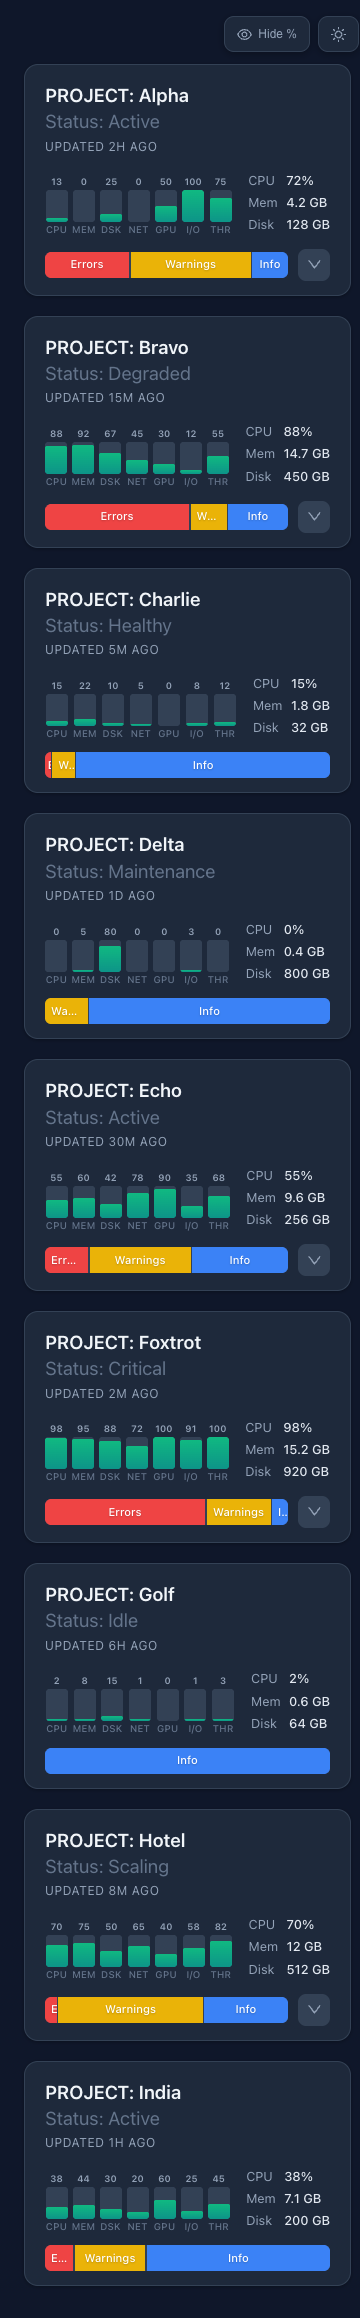
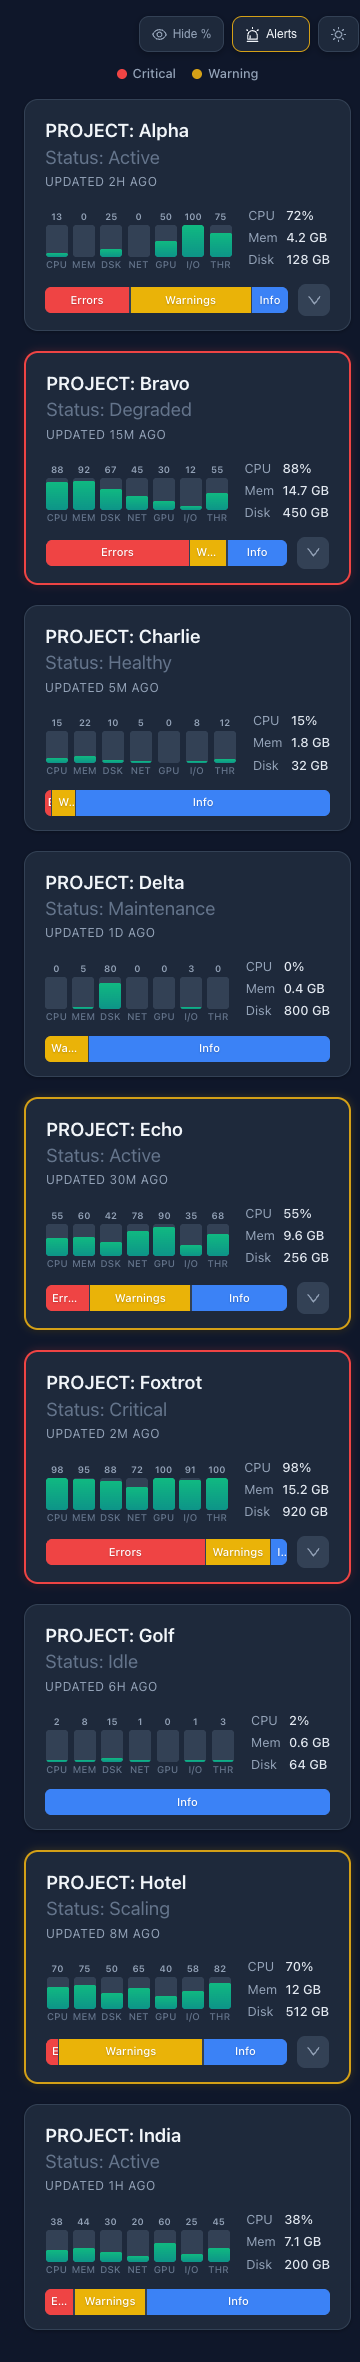
Add priority border highlights with toggle and legend
- Red borders for critical cards (Bravo, Foxtrot)
- Gold borders for warning cards (Echo, Hotel)
- Subtle glow effect on priority cards
- Theme-aware colors for light and dark modes
- Alerts toggle in toolbar to enable/disable borders
- Legend showing critical/warning indicators
- Updated screenshots and README

diff --git a/src/App.tsx b/src/App.tsx
@@ -1,9 +1,9 @@
 import { useState, useEffect } from "react";
 import StatusCard, { type StatusCardProps } from "./components/StatusCard";
-import { SunOutlined, MoonOutlined, EyeOutlined, EyeInvisibleOutlined } from "@ant-design/icons";
+import { SunOutlined, MoonOutlined, EyeOutlined, EyeInvisibleOutlined, AlertOutlined } from "@ant-design/icons";
 import "./App.css";
 
-const cards: Omit<StatusCardProps, "onShare" | "showGaugePercent">[] = [
+const cards: Omit<StatusCardProps, "onShare" | "showGaugePercent" | "showPriority">[] = [
   {
     title: "PROJECT: Alpha",
     subtitle: "Status: Active",
@@ -33,6 +33,7 @@ const cards: Omit<StatusCardProps, "onShare" | "showGaugePercent">[] = [
     title: "PROJECT: Bravo",
     subtitle: "Status: Degraded",
     metadata: "updated 15m ago",
+    priority: "critical",
     usageGauges: [
       { label: "CPU", percent: 88 },
       { label: "MEM", percent: 92 },
@@ -105,6 +106,7 @@ const cards: Omit<StatusCardProps, "onShare" | "showGaugePercent">[] = [
     title: "PROJECT: Echo",
     subtitle: "Status: Active",
     metadata: "updated 30m ago",
+    priority: "warning",
     usageGauges: [
       { label: "CPU", percent: 55 },
       { label: "MEM", percent: 60 },
@@ -130,6 +132,7 @@ const cards: Omit<StatusCardProps, "onShare" | "showGaugePercent">[] = [
     title: "PROJECT: Foxtrot",
     subtitle: "Status: Critical",
     metadata: "updated 2m ago",
+    priority: "critical",
     usageGauges: [
       { label: "CPU", percent: 98 },
       { label: "MEM", percent: 95 },
@@ -177,6 +180,7 @@ const cards: Omit<StatusCardProps, "onShare" | "showGaugePercent">[] = [
     title: "PROJECT: Hotel",
     subtitle: "Status: Scaling",
     metadata: "updated 8m ago",
+    priority: "warning",
     usageGauges: [
       { label: "CPU", percent: 70 },
       { label: "MEM", percent: 75 },
@@ -227,6 +231,7 @@ const cards: Omit<StatusCardProps, "onShare" | "showGaugePercent">[] = [
 function App() {
   const [dark, setDark] = useState(false);
   const [showPercent, setShowPercent] = useState(true);
+  const [showPriority, setShowPriority] = useState(true);
 
   useEffect(() => {
     document.documentElement.classList.toggle("dark", dark);
@@ -245,6 +250,15 @@ function App() {
           <span className="toolbar-label">{showPercent ? "Hide %" : "Show %"}</span>
         </button>
         <button
+          className={`toolbar-btn ${showPriority ? "toolbar-btn-active" : ""}`}
+          onClick={() => setShowPriority(!showPriority)}
+          aria-label={showPriority ? "Hide priority borders" : "Show priority borders"}
+          title={showPriority ? "Hide alerts" : "Show alerts"}
+        >
+          <AlertOutlined />
+          <span className="toolbar-label">{showPriority ? "Alerts" : "Alerts"}</span>
+        </button>
+        <button
           className="toolbar-btn"
           onClick={() => setDark(!dark)}
           aria-label={dark ? "Switch to light mode" : "Switch to dark mode"}
@@ -254,9 +268,22 @@ function App() {
         </button>
       </div>
 
+      {showPriority && (
+        <div className="legend">
+          <span className="legend-item">
+            <span className="legend-dot legend-dot-critical" />
+            Critical
+          </span>
+          <span className="legend-item">
+            <span className="legend-dot legend-dot-warning" />
+            Warning
+          </span>
+        </div>
+      )}
+
       <div className="card-grid">
         {cards.map((card, i) => (
-          <StatusCard key={i} {...card} showGaugePercent={showPercent} />
+          <StatusCard key={i} {...card} showGaugePercent={showPercent} showPriority={showPriority} />
         ))}
       </div>
     </div>

diff --git a/src/components/StatusCard.tsx b/src/components/StatusCard.tsx
@@ -26,6 +26,8 @@ export interface StatItem {
   value: string;
 }
 
+export type CardPriority = "critical" | "warning";
+
 export interface StatusCardProps {
   /** Bold title line, e.g. "PROJECT: Alpha" */
   title: string;
@@ -43,6 +45,10 @@ export interface StatusCardProps {
   onShare?: () => void;
   /** Show percentage numbers above gauge bars */
   showGaugePercent?: boolean;
+  /** Priority level — adds a colored border */
+  priority?: CardPriority;
+  /** Whether to show priority borders */
+  showPriority?: boolean;
   /** Optional expandable content */
   expandContent?: React.ReactNode;
 }
@@ -118,12 +124,16 @@ export default function StatusCard({
   segments,
   onShare,
   showGaugePercent = true,
+  priority,
+  showPriority = false,
   expandContent,
 }: StatusCardProps) {
   const [expanded, setExpanded] = useState(false);
 
+  const priorityClass = showPriority && priority ? `card-${priority}` : "";
+
   return (
-    <div className="status-card">
+    <div className={`status-card ${priorityClass}`}>
       {/* Header */}
       <div className="card-header">
         <div className="header-text">

diff --git a/src/App.css b/src/App.css
@@ -45,9 +45,45 @@
   color: var(--text-primary);
 }
 
+.toolbar-btn-active {
+  border-color: var(--border-warning);
+  color: var(--text-primary);
+}
+
 .toolbar-label {
   font-size: 0.75rem;
   font-weight: 500;
+}
+
+/* ── Legend ── */
+.legend {
+  display: flex;
+  gap: 16px;
+  justify-content: center;
+  margin-bottom: 16px;
+}
+
+.legend-item {
+  display: inline-flex;
+  align-items: center;
+  gap: 6px;
+  font-size: 0.8rem;
+  font-weight: 500;
+  color: var(--text-secondary);
+}
+
+.legend-dot {
+  width: 10px;
+  height: 10px;
+  border-radius: 50%;
+}
+
+.legend-dot-critical {
+  background: var(--legend-critical-dot);
+}
+
+.legend-dot-warning {
+  background: var(--legend-warning-dot);
 }
 
 /* ── Card grid: 3 columns ── */

diff --git a/src/components/StatusCard.css b/src/components/StatusCard.css
@@ -17,6 +17,25 @@
   box-shadow: 0 3px 12px var(--shadow-md);
 }
 
+/* ── Priority borders ── */
+.status-card.card-warning {
+  border: 2px solid var(--border-warning);
+  box-shadow: 0 1px 4px var(--shadow-sm), 0 0 8px var(--glow-warning);
+}
+
+.status-card.card-critical {
+  border: 2px solid var(--border-critical);
+  box-shadow: 0 1px 4px var(--shadow-sm), 0 0 8px var(--glow-critical);
+}
+
+.status-card.card-warning:hover {
+  box-shadow: 0 3px 12px var(--shadow-md), 0 0 12px var(--glow-warning);
+}
+
+.status-card.card-critical:hover {
+  box-shadow: 0 3px 12px var(--shadow-md), 0 0 12px var(--glow-critical);
+}
+
 /* ── Header ── */
 .card-header {
   display: flex;

diff --git a/src/index.css b/src/index.css
@@ -23,6 +23,14 @@
   --toggle-bg: #e5e7eb;
   --toggle-fg: #374151;
 
+  --border-warning: #b8860b;
+  --border-critical: #dc2626;
+  --glow-warning: rgba(184, 134, 11, 0.15);
+  --glow-critical: rgba(220, 38, 38, 0.15);
+
+  --legend-warning-dot: #b8860b;
+  --legend-critical-dot: #dc2626;
+
   color-scheme: light;
 }
 
@@ -46,6 +54,14 @@
 
   --toggle-bg: #334155;
   --toggle-fg: #e2e8f0;
+
+  --border-warning: #d4a017;
+  --border-critical: #ef4444;
+  --glow-warning: rgba(212, 160, 23, 0.25);
+  --glow-critical: rgba(239, 68, 68, 0.25);
+
+  --legend-warning-dot: #d4a017;
+  --legend-critical-dot: #ef4444;
 
   color-scheme: dark;
 }

diff --git a/README.md b/README.md
@@ -21,6 +21,7 @@ A responsive status card dashboard built with React, TypeScript, and Vite. Displ
 - **9 Status Cards** in a responsive 3-column grid (3 cols > 2 cols > 1 col)
 - **7 Resource Gauges** per card (CPU, MEM, DSK, NET, GPU, I/O, THR) with proportional fill bars and background tracks
 - **Percentage Labels** on gauges with a global toggle to show/hide
+- **Priority Borders** — red for critical cards, gold for warning cards, with a legend and toggle to enable/disable
 - **Dark Theme** with a one-click toggle (sun/moon icon)
 - **Segmented Status Bar** showing error/warning/info distribution
 - **Expandable Cards** with additional detail panels
